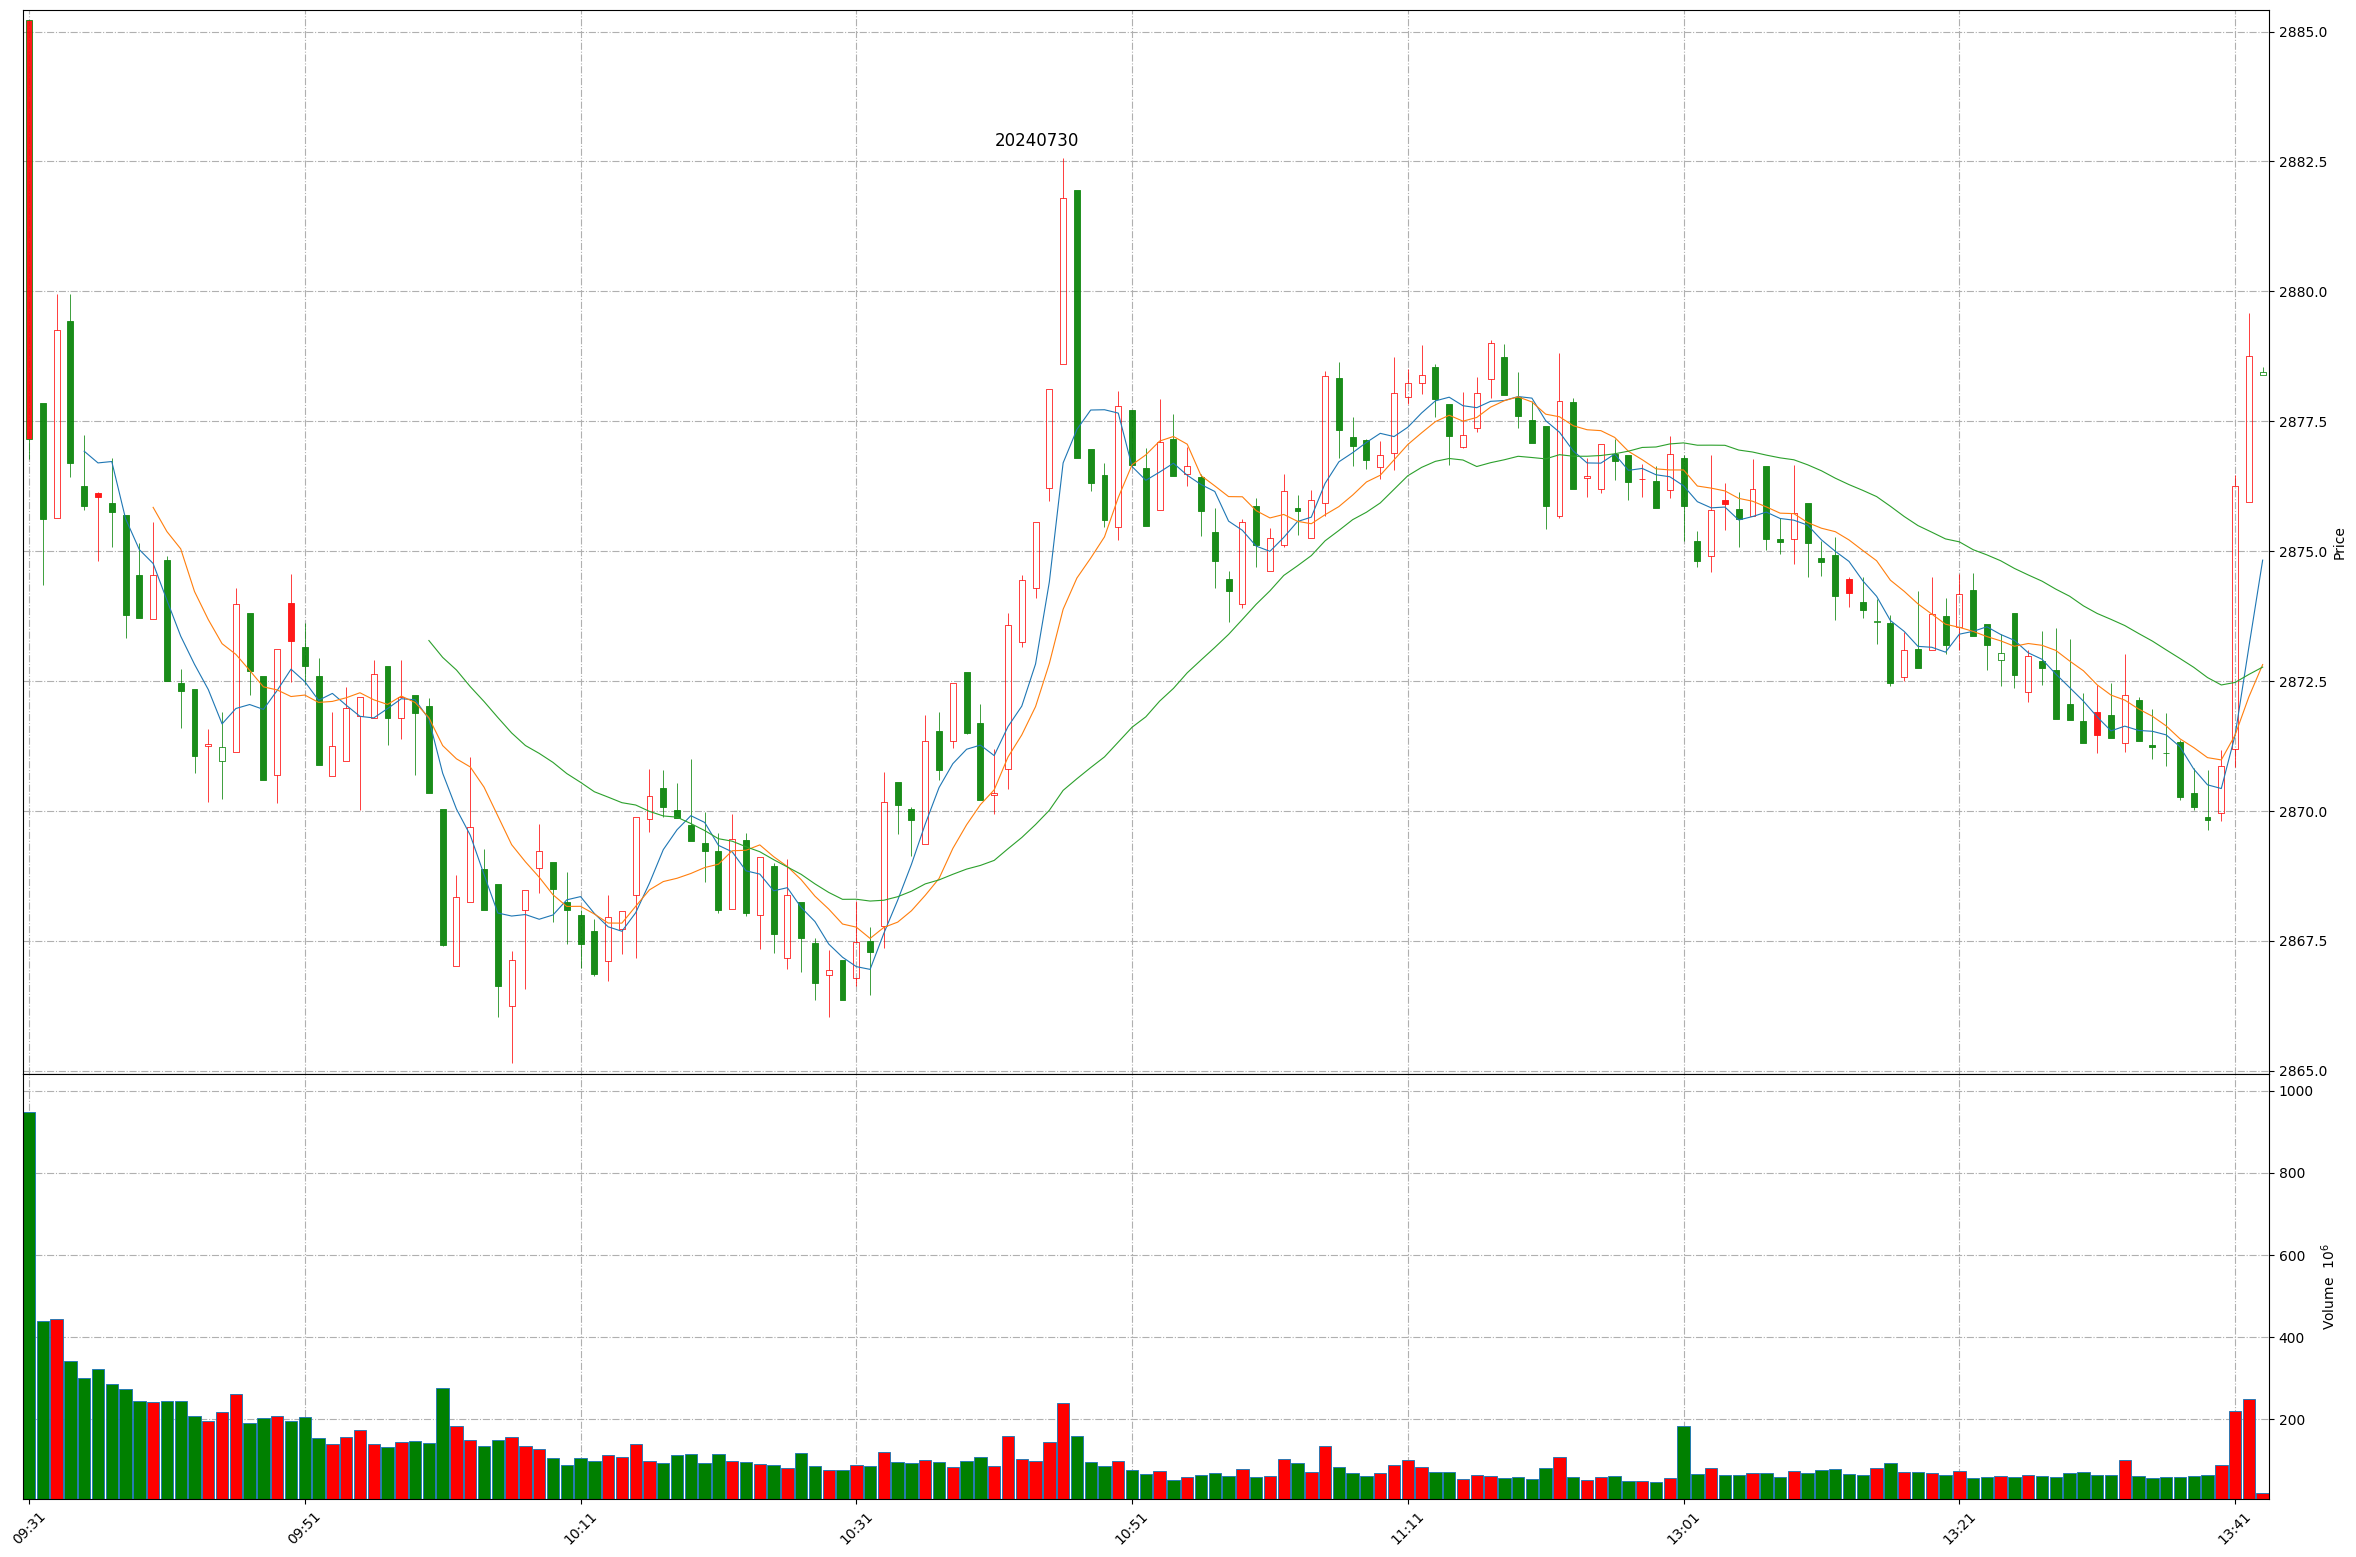
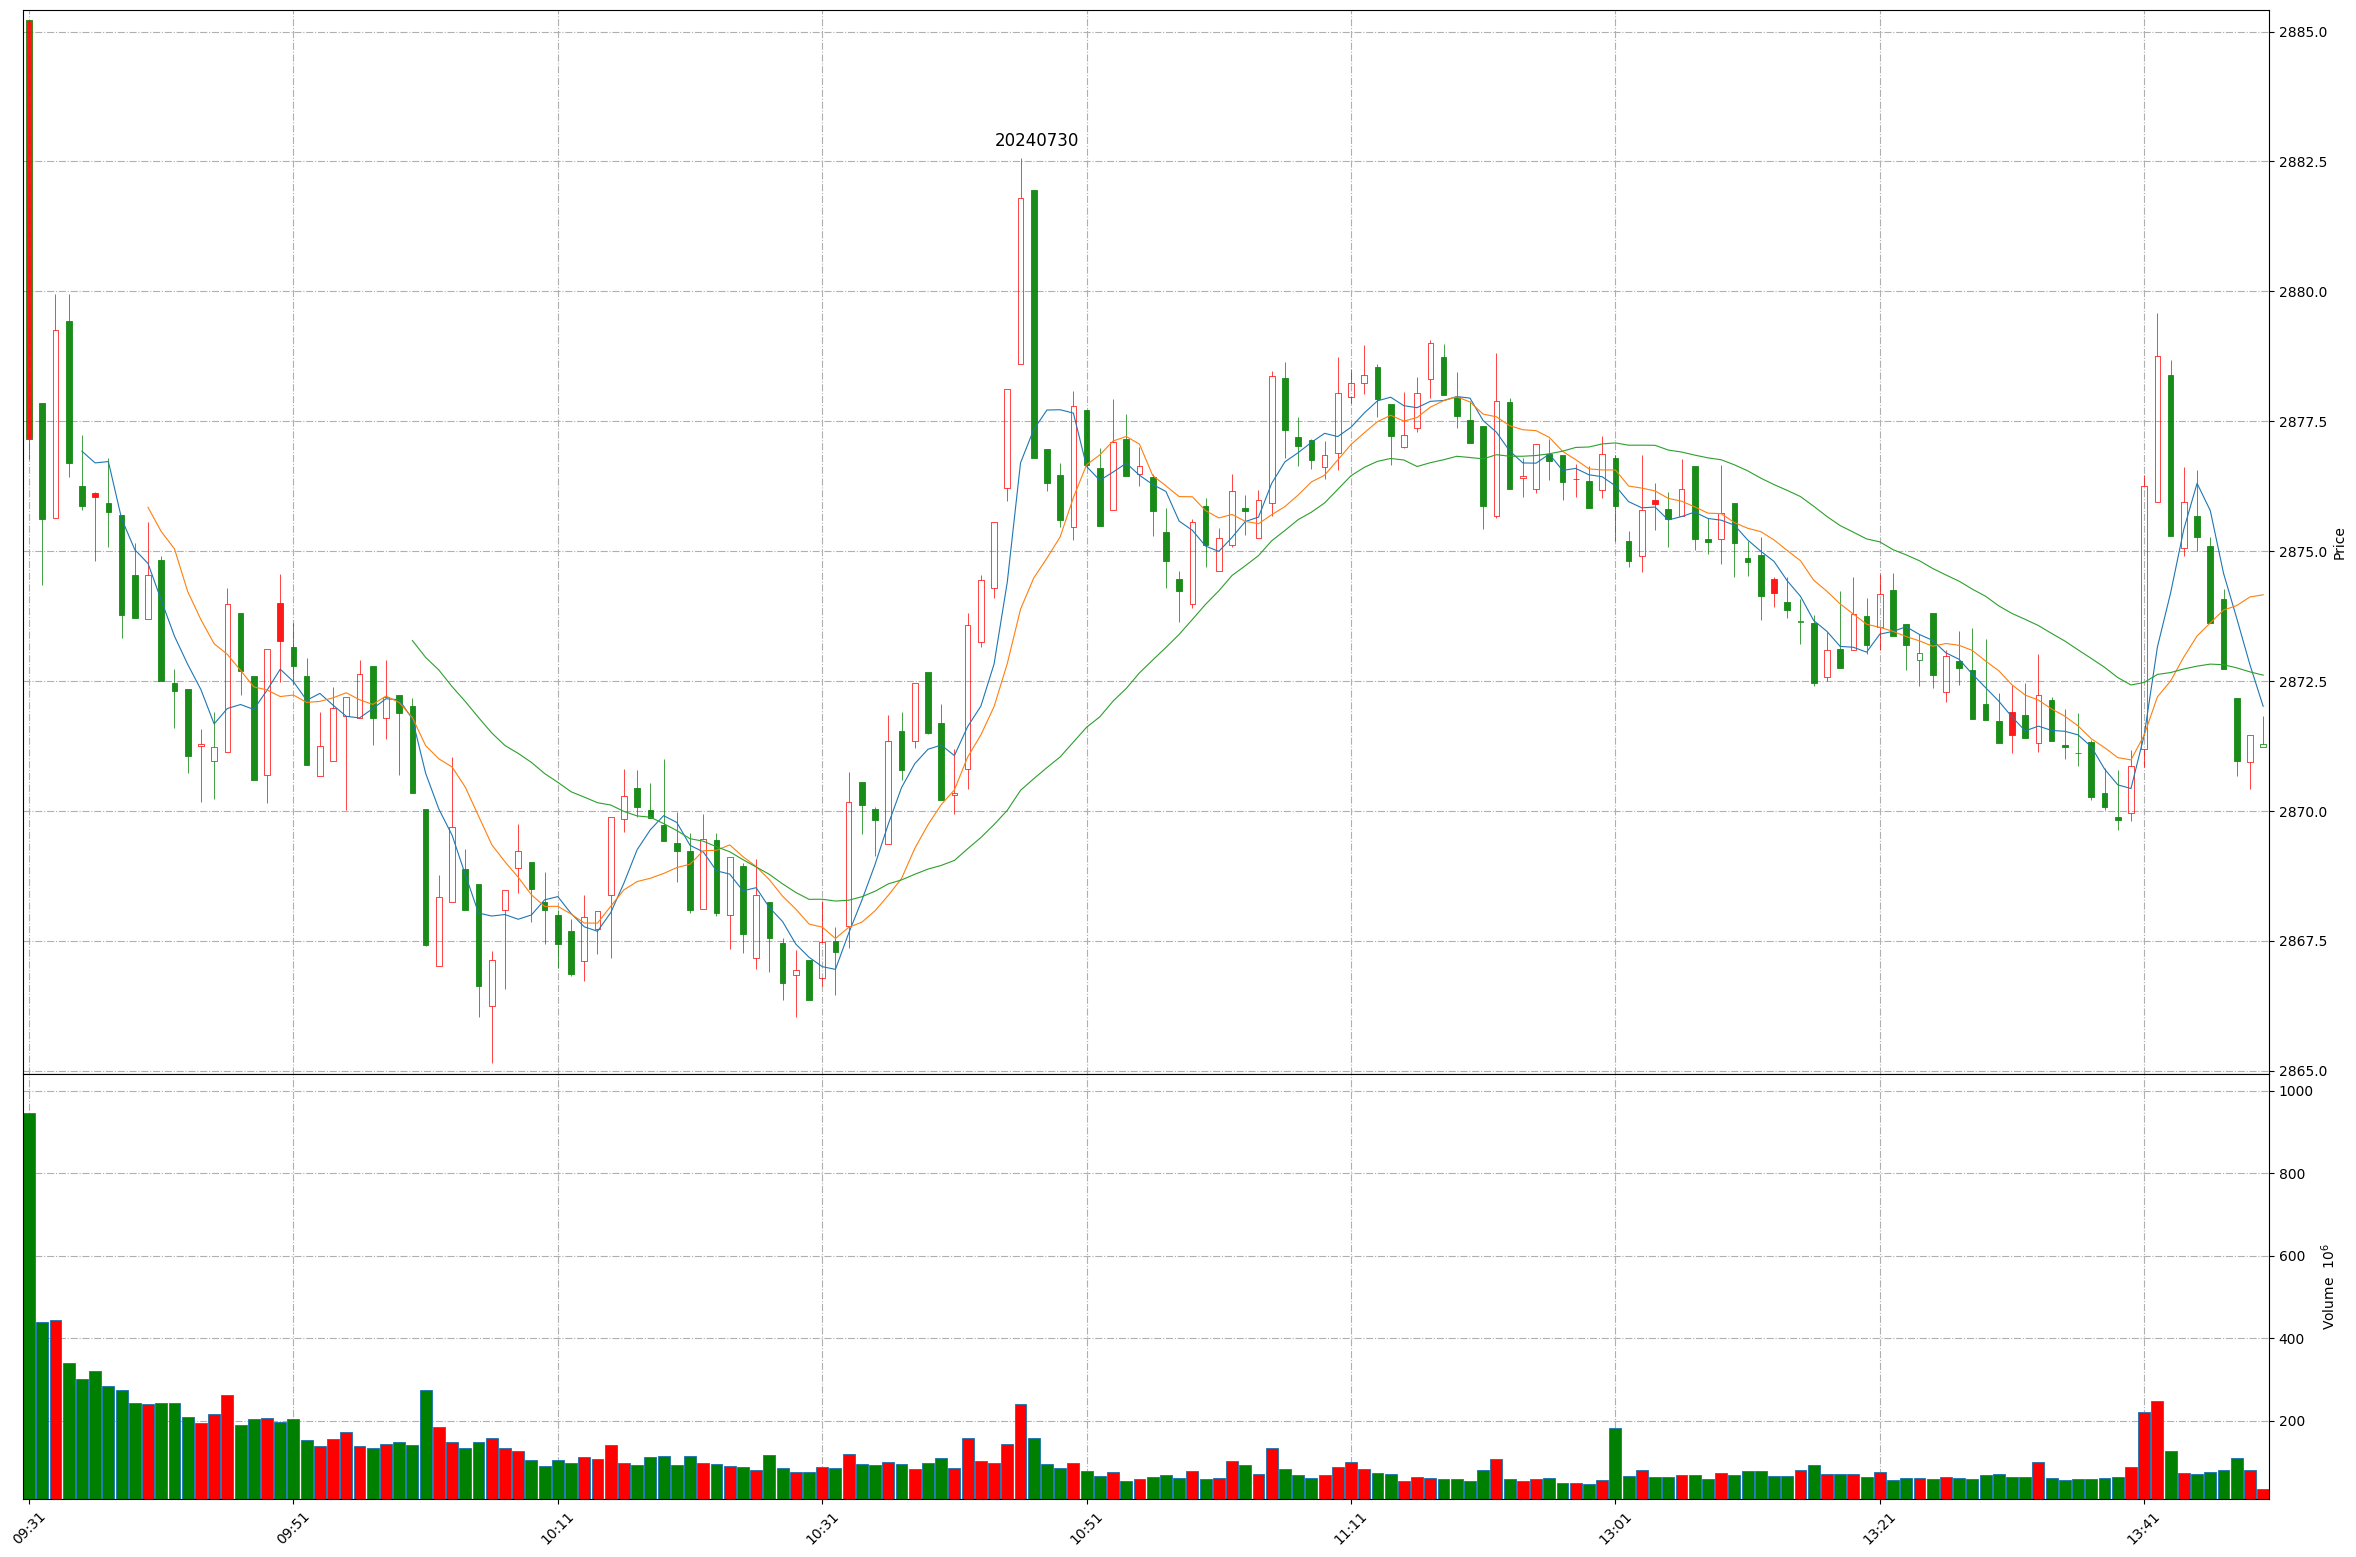
Github action update at 2024-07-30 13:49:45.

Changed region(s): [[0.0, 0.8632, 0.9605, 0.9865], [0.4338, 0.1233, 0.9605, 0.5241], [0.031, 0.3083, 0.4338, 0.6474]]

diff --git a/README.md b/README.md
@@ -1,11 +1,11 @@
 
 # Daily-A-share-market-quotes 每日 A 股指数（5min 更新）- 20240730
 
-### 上证指数 20240730 13:42
+### 上证指数 20240730 13:49
 ![](./fig/2024/7/20240730-sh000001.png)
 
-### 深证成指 20240730 13:42
+### 深证成指 20240730 13:49
 ![](./fig/2024/7/20240730-sz399001.png)
 
-### 北证50 20240730 13:42
+### 北证50 20240730 13:49
 ![](./fig/2024/7/20240730-bj899050.png)
